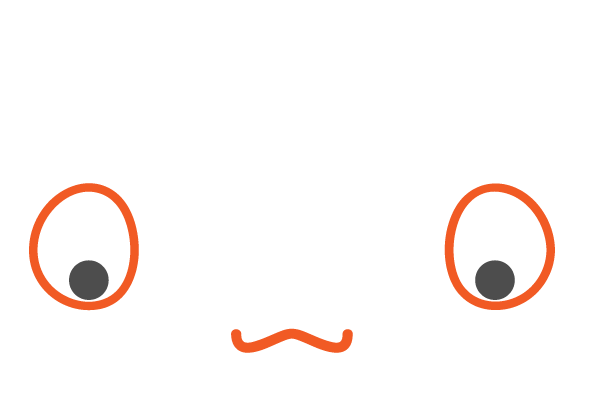
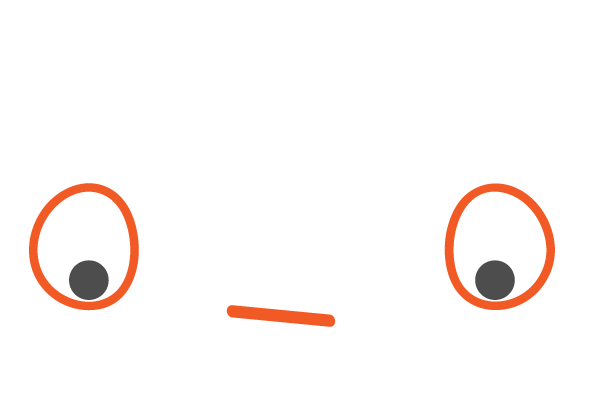
Realizamos cambios en las URLS y en una interaccion de mego

Changed region(s): [[0.3667, 0.7595, 0.6112, 0.9114]]

diff --git a/public/scripts/mego.js b/public/scripts/mego.js
@@ -545,12 +545,12 @@
 
             }, 2000);
 
-            $(".chat-input").focusin(function() {
+            $(".chat-input").keypress(function() {
                 intervalPestaneoFocus.image[0] = intervalPestaneoFocus.focus[0];
                 intervalPestaneoFocus.image[1] = intervalPestaneoFocus.focus[0];
             });
 
-            $(".chat-input").focusout(function() {
+            $(".chat-input").keyup(function() {
                 intervalPestaneoFocus.image[0] = "img/1.png";
                 intervalPestaneoFocus.image[1] = "img/2.png";
             });
@@ -562,6 +562,7 @@
         var chat_logs = document.querySelector(".chat-logs");
         var text = currentMessage.querySelector(".cm-msg-text");
         var messageLink = linkDetect(message);
+        // Aplicamos reacciones a mego
         reactions("gratitude", message);
         reactions("notRecognized", message);
         reactions("insult", message);
@@ -575,6 +576,7 @@
         var currentMessage = chat_msg_usuario.cloneNode(true);
         var chat_logs = document.querySelector(".chat-logs");
         var text = currentMessage.querySelector(".cm-msg-text");
+        // Aplicamos reacciones a mego capturando mensajes del usuario
         reactions("gratitude", message);
         currentMessage.id = "cm-msg-" + indice;
         text.innerHTML = message;
@@ -591,6 +593,9 @@
 
         question.innerHTML = message.text;
         description.innerHTML = message.description;
+        if (message.description == undefined) {
+            description.innerHTML = "<br>"
+        }
         message.options.forEach(option => {
             var msg_li = document.createElement('li');
             msg_li.innerHTML = option.description;

diff --git a/public/mego/index.html b/public/mego/index.html
@@ -17,7 +17,7 @@
                             class="material-icons">send</i></button></form>
             </div>
             <div class="chat-input">
-                <form id="formButton" style="display: block;"><button type="button" class="btn btn-secondary btn-lg btn-block hvr-underline-from-center" style="display:block">Hola
+                <form id="formButton"><button type="button" id="btnWelcome" class="btn btn-secondary btn-lg btn-block hvr-underline-from-center">Hola
                         Mego!</button></form>
             </div>
         </div>

diff --git a/public/index.html b/public/index.html
@@ -104,7 +104,7 @@
                     </a>
                 </div>
                 <div class="col wrapper-aplicacion">
-                    <a href="http://glpi.mega.com.ar" target="_blank">
+                    <a href="https://soporte.megatech.la" target="_blank">
                         <div class="wrapper-span hvr-float-shadow">
                             <span class="icono-acceso">B</span>
                         </div>
